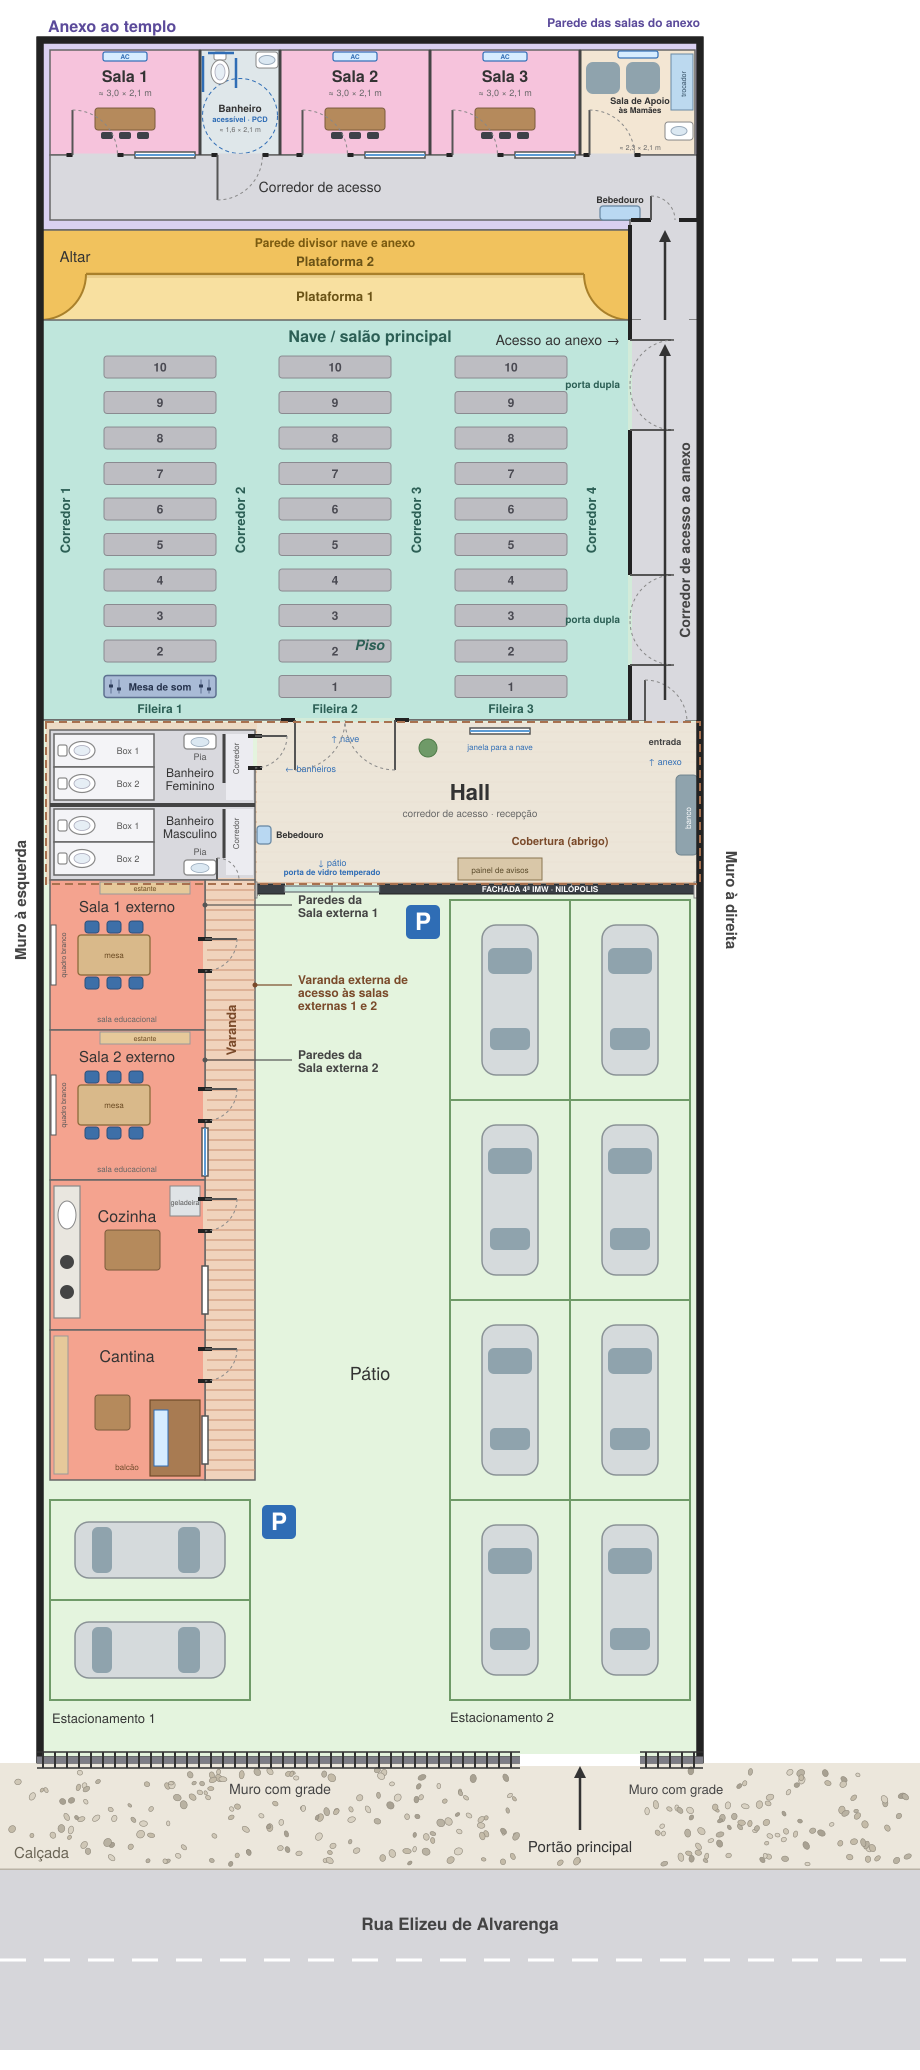
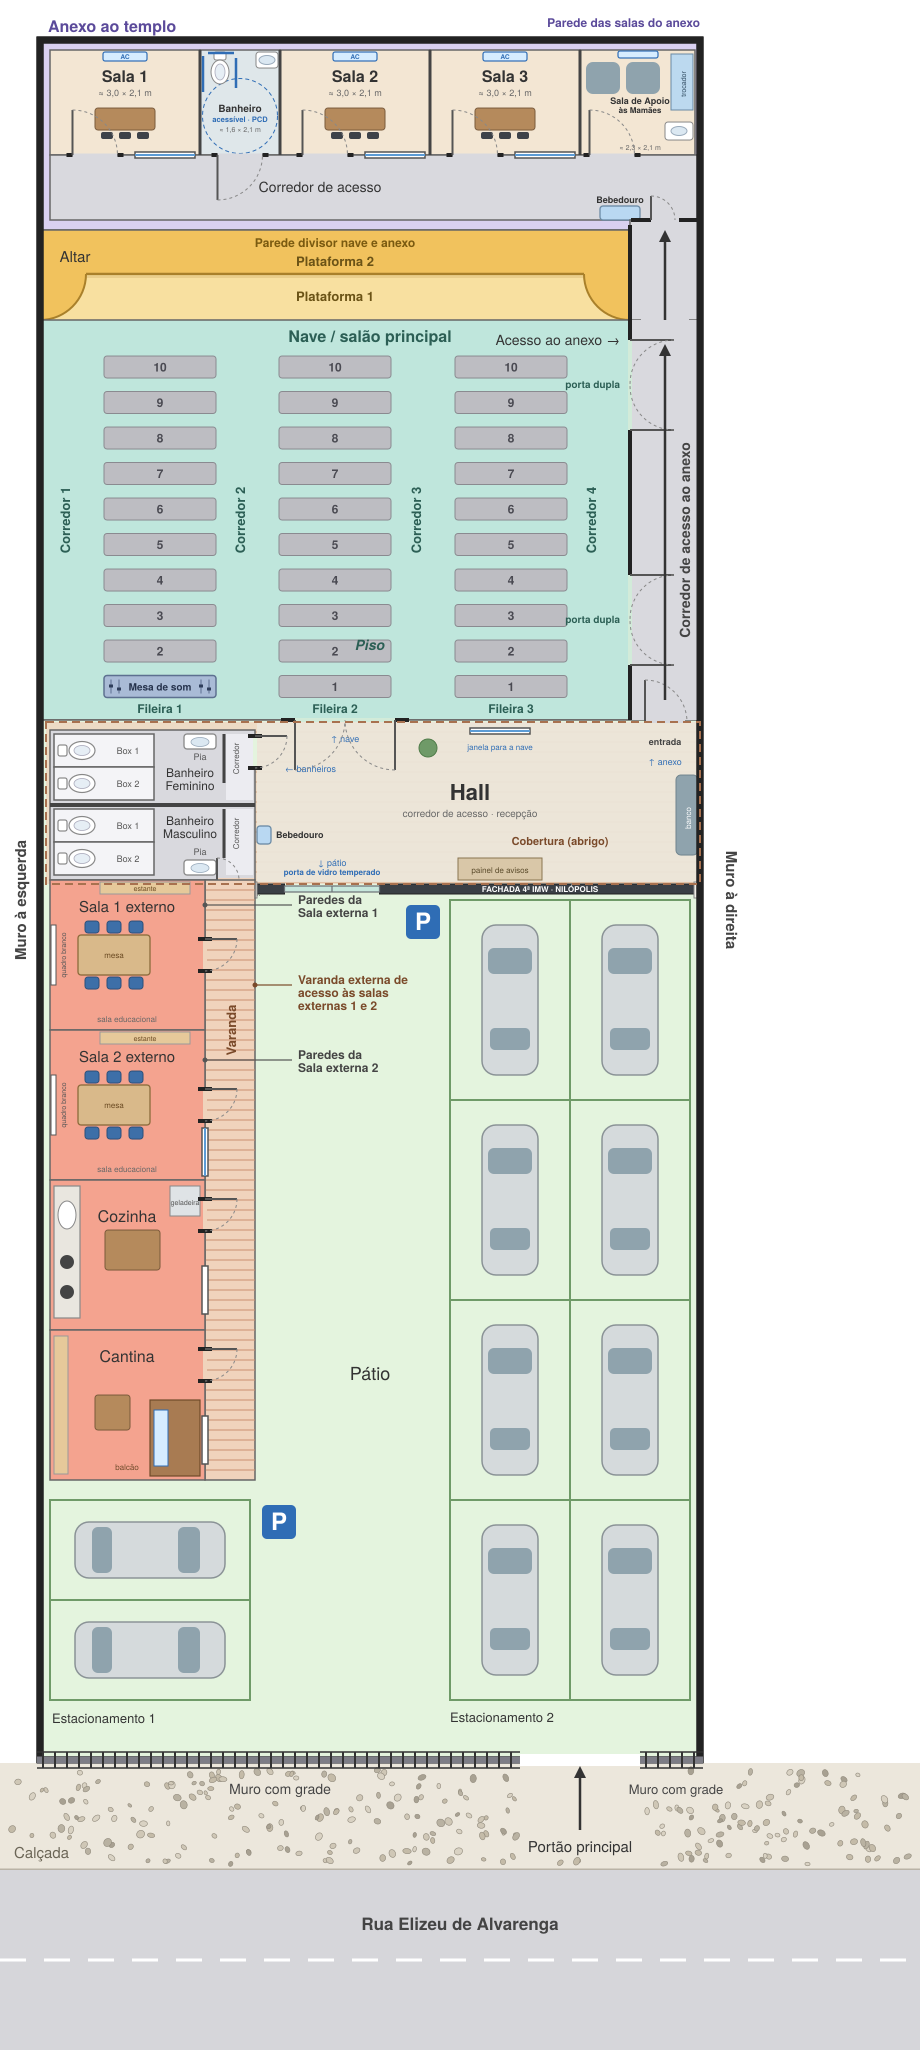
Maquete 2: piso claro nas salas do anexo
Claude-Session: https://claude.ai/code/session_015gh4tS64wXyJ2ghbw66cFX

Changed region(s): [[0.3043, 0.0, 0.6391, 0.0928], [0.0304, 0.0, 0.213, 0.0928]]

diff --git a/projeto2/maquete.html b/projeto2/maquete.html
@@ -119,7 +119,7 @@
   }
   var C = {
     wall: 0xf3efe6, wallIn: 0xe9e3d6, muro: 0xe6dfd0, trim: 0xb9b2a2,
-    anexo: 0xd9d0f0, salaAnexo: 0xf6c3dc, corr: 0xd9d9de, plat1: 0xd2d4d7, plat2: 0xd2d4d7, nave: 0xbfe6dc,
+    anexo: 0xd9d0f0, salaAnexo: 0xe8d9c0, corr: 0xd9d9de, plat1: 0xd2d4d7, plat2: 0xd2d4d7, nave: 0xbfe6dc,
     bath: 0xd9d9de, salaExt: 0xf4a38f, bebedouro: 0xb9d8f2, patio: 0xdfeedd, varanda: 0xf0d3bc,
     grass: 0xc9e0bd, sidewalk: 0xece7dc, street: 0x8e9299, line: 0x5f8f5a, roof: 0x8d9299, wood: 0x8b5e3c, slab: 0xb9b9c3,
     mesa: 0xa9bbd6, white: 0xffffff, grade: 0xffffff, azul: 0x3f78c4, azulClaro: 0x9cc8ee
